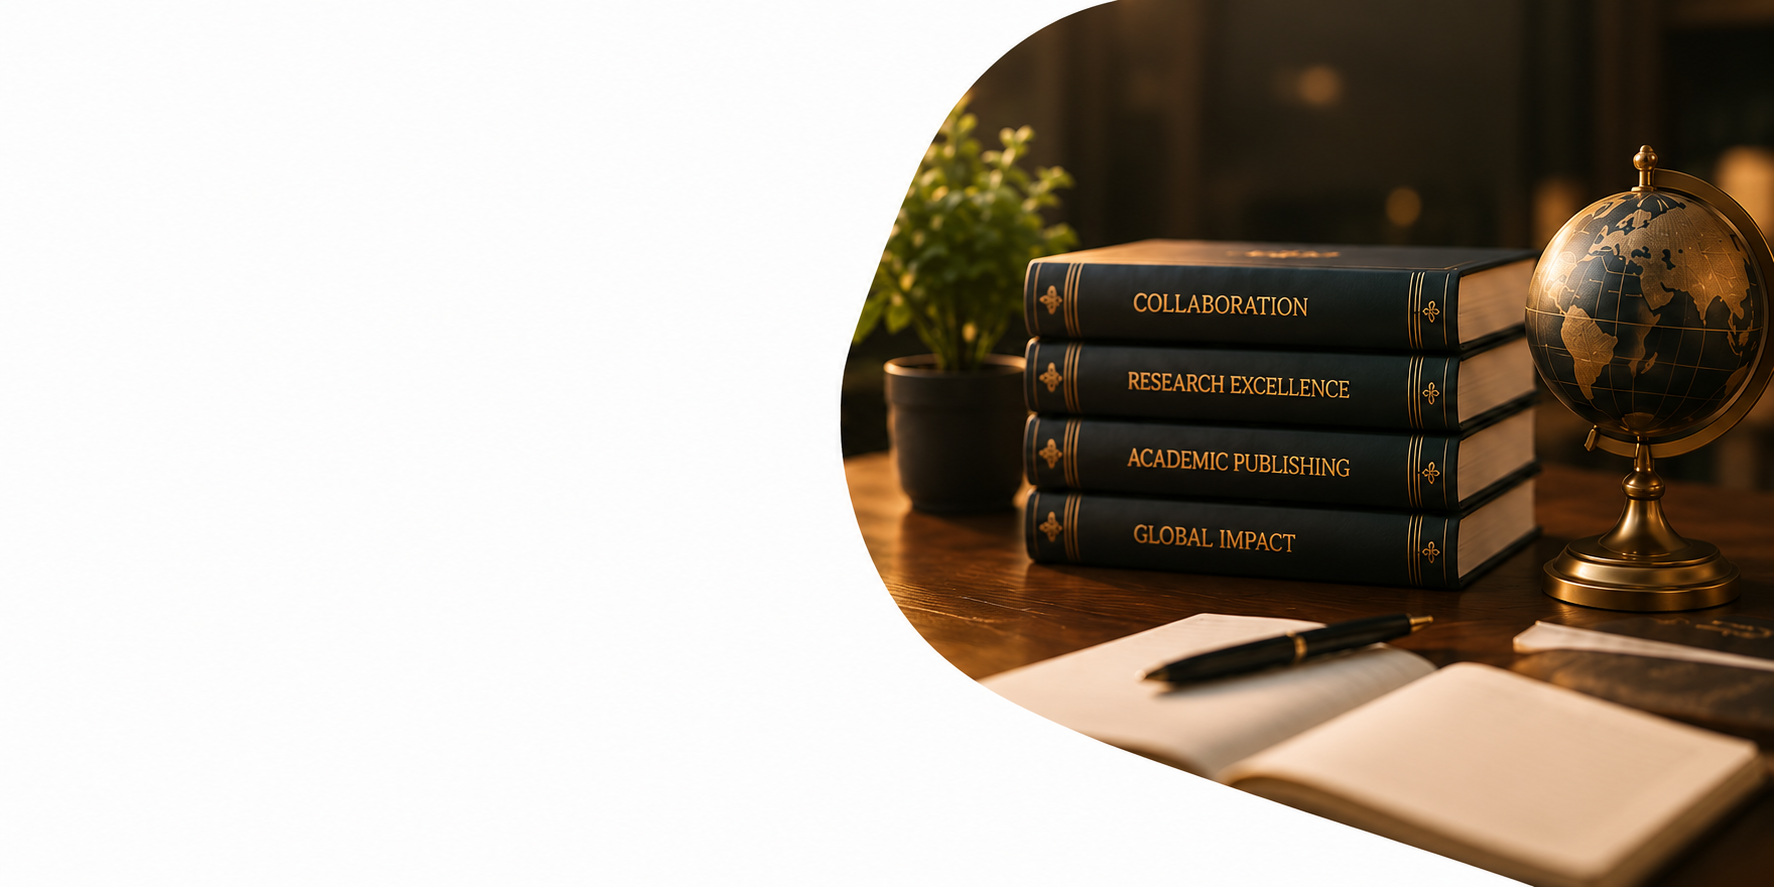
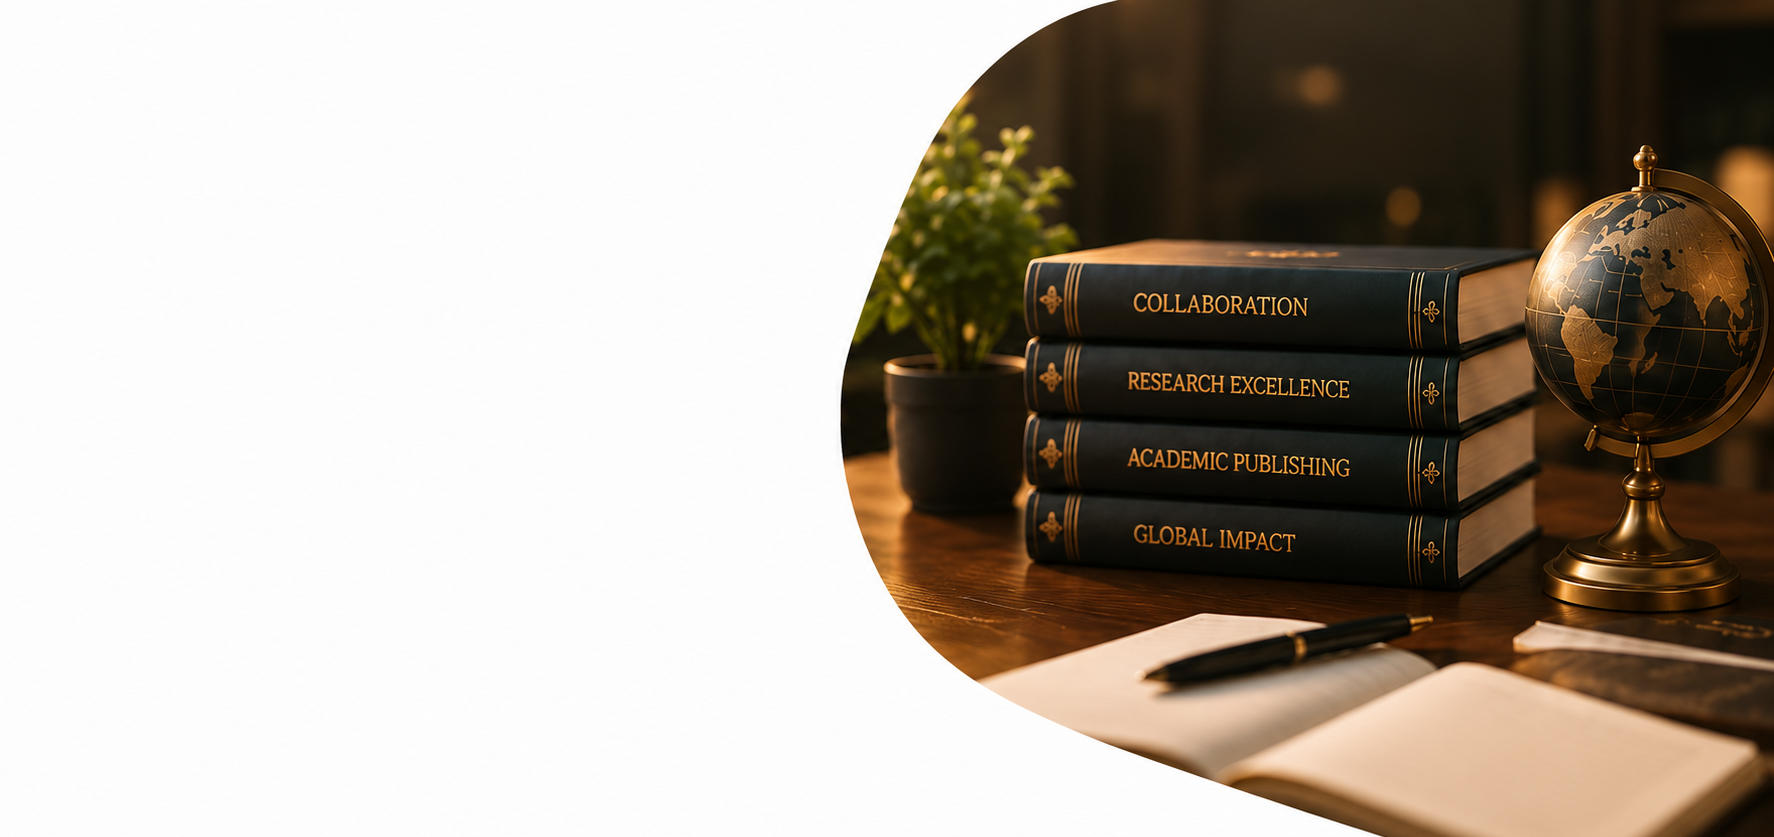
feat: update font sizes and styles across About, Contact, Journals, and Services pages for improved readability

Changed region(s): [[0.4651, 0.0932, 1.0, 1.0]]

diff --git a/src/pages/Contact.jsx b/src/pages/Contact.jsx
@@ -366,7 +366,7 @@ async function onSubmit(data) {
               className="relative z-10 w-full max-w-[660px]"
             >
               <motion.div variants={fadeUp}>
-                <div className="mb-7  mt-16 flex items-center gap-3 text-[12px] font-medium text-[#536563]">
+                <div className="mb-5  mt-16 flex items-center gap-3 text-[12px] font-medium text-[#536563]">
                   <Link
                     to="/"
                     className="transition-colors duration-300 hover:text-[#c9953e]"
@@ -386,13 +386,13 @@ async function onSubmit(data) {
                 variants={fadeLeft}
                 className="
                   font-serif
-                  font-semibold
+                  font-[600]
                   leading-[1.04]
                   tracking-[-0.025em]
                   text-[#063330]
-                  text-[30px]
-             sm:text-[38px]
-             lg:text-[44px]
+                  text-[28px]
+             sm:text-[32px]
+             lg:text-[36px]
                 "
               >
                 Get in Touch
@@ -421,7 +421,7 @@ async function onSubmit(data) {
               <motion.div
                 variants={fadeUp}
                 className="
-                  mt-9
+                  mt-5
                   grid
                   max-w-[780px]
                   grid-cols-2

diff --git a/src/pages/Journals.jsx b/src/pages/Journals.jsx
@@ -532,7 +532,7 @@ export default function Journals() {
                   </span>
                 </div>
 
-                <h1 className="font-serif font-semibold leading-[1.03] tracking-[-0.035em] text-[#073b3a]  text-[30px] sm:text-[38px] lg:text-[44px]">
+                <h1 className="font-serif font-[600] leading-[1.03] tracking-[-0.035em] text-[#073b3a]  text-[26px] sm:text-[32px] lg:text-[36px]">
                   Explore Our
                   <span className="mt-1 block text-[#bd8a43]">
                     Academic Journals

diff --git a/src/pages/Services.jsx b/src/pages/Services.jsx
@@ -428,12 +428,12 @@ export default function Services() {
                 variants={fadeLeft}
                 className="
                   font-serif
-                  font-semibold
+                  font-[600]
                   leading-[1.04]
                   text-[#063330]
-                  text-[30px]
-             sm:text-[38px]
-             lg:text-[44px]
+                  text-[28px]
+             sm:text-[32px]
+             lg:text-[36px]
                 "
               >
                 Our{" "}

diff --git a/src/pages/About.jsx b/src/pages/About.jsx
@@ -393,9 +393,9 @@ export default function About() {
               <motion.h1
                 variants={fadeLeft}
                 className="font-serif font-semibold leading-[1.05]
-             text-[30px]
-             sm:text-[38px]
-             lg:text-[44px]
+             text-[28px]
+             sm:text-[32px]
+             lg:text-[36px]
              text-[#063330]"
               >
                 About
